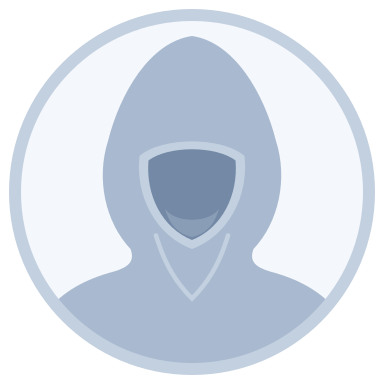
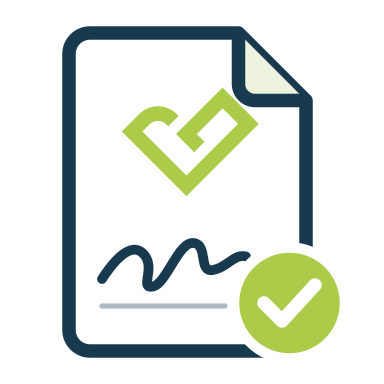
fix(sello): recuperar el emblema y los colores verde y azul marino del sello visible
Claude-Session: https://claude.ai/code/session_01SgQdcJRhwoM6v3oPDftTw1

diff --git a/internal/adapters/outbound/desktop/signer/pades_sello.go b/internal/adapters/outbound/desktop/signer/pades_sello.go
@@ -26,7 +26,7 @@ import (
 )
 
 // Sello visible de GrxFirma: tarjeta blanca con barra de acento en los
-// colores de GrxFirma, emblema opcional (la capucha en tono suave),
+// colores verde y azul marino de GrxFirma, emblema opcional,
 // identidad del firmante destacada, fecha y motivo, y un QR de verificación
 // con su rótulo. El texto se ajusta al tamaño del sello y el contenido se
 // apila en los sellos estrechos o verticales.
@@ -41,8 +41,8 @@ const motivoPorDefectoPAdES = "Firma electrónica avanzada"
 var (
 	colorSelloFondo    = color.NRGBA{255, 255, 255, 250}
 	colorSelloBorde    = color.NRGBA{190, 202, 211, 255}
-	colorSelloAcento   = color.NRGBA{32, 107, 196, 255} // #206bc4
-	colorSelloNombre   = color.NRGBA{16, 58, 110, 255}  // #103a6e
+	colorSelloAcento   = color.NRGBA{172, 203, 73, 255} // #accb49
+	colorSelloNombre   = color.NRGBA{23, 58, 78, 255}   // #173a4e
 	colorSelloEtiqueta = color.NRGBA{91, 107, 120, 255}
 	colorSelloDetalle  = color.NRGBA{51, 67, 79, 255}
 	fuentesSello       struct {

diff --git a/internal/adapters/outbound/desktop/signer/pades_giro_libre_render_test.go b/internal/adapters/outbound/desktop/signer/pades_giro_libre_render_test.go
@@ -200,8 +200,8 @@ func orientacionTinta(img image.Image, zona image.Rectangle) (angulo, alargamien
 	return angulo, math.Sqrt((traza + raiz) / 2 / menor), cx, cy
 }
 
-// centroAcento devuelve el centro de la barra de acento del sello (azul
-// #206bc4, en el borde izquierdo de una tarjeta apaisada). El texto azul
+// centroAcento devuelve el centro de la barra de acento del sello (verde
+// #accb49, en el borde izquierdo de una tarjeta apaisada). El texto azul
 // marino es más oscuro y no cuenta.
 func centroAcento(img image.Image, zona image.Rectangle) (cx, cy float64, n int) {
 	zona = zona.Intersect(img.Bounds())
@@ -209,7 +209,7 @@ func centroAcento(img image.Image, zona image.Rectangle) (cx, cy float64, n int)
 		for px := zona.Min.X; px < zona.Max.X; px++ {
 			r, g, b, _ := img.At(px, py).RGBA()
 			r, g, b = r>>8, g>>8, b>>8
-			if b > 150 && b > r+80 && b > g+40 {
+			if g > 120 && g > r+30 && g > b+30 {
 				cx += float64(px)
 				cy += float64(py)
 				n++
